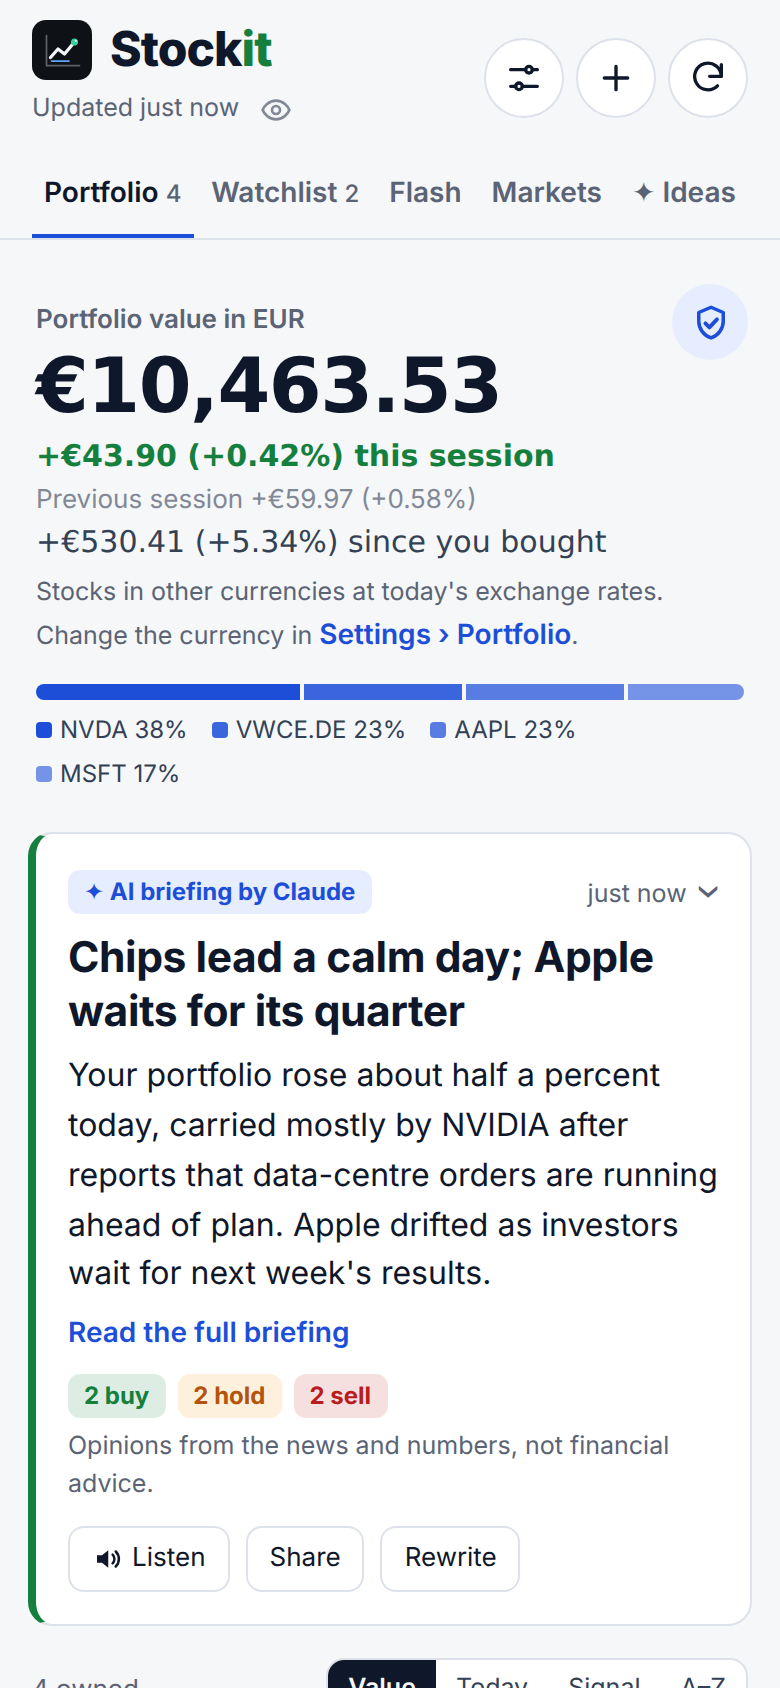
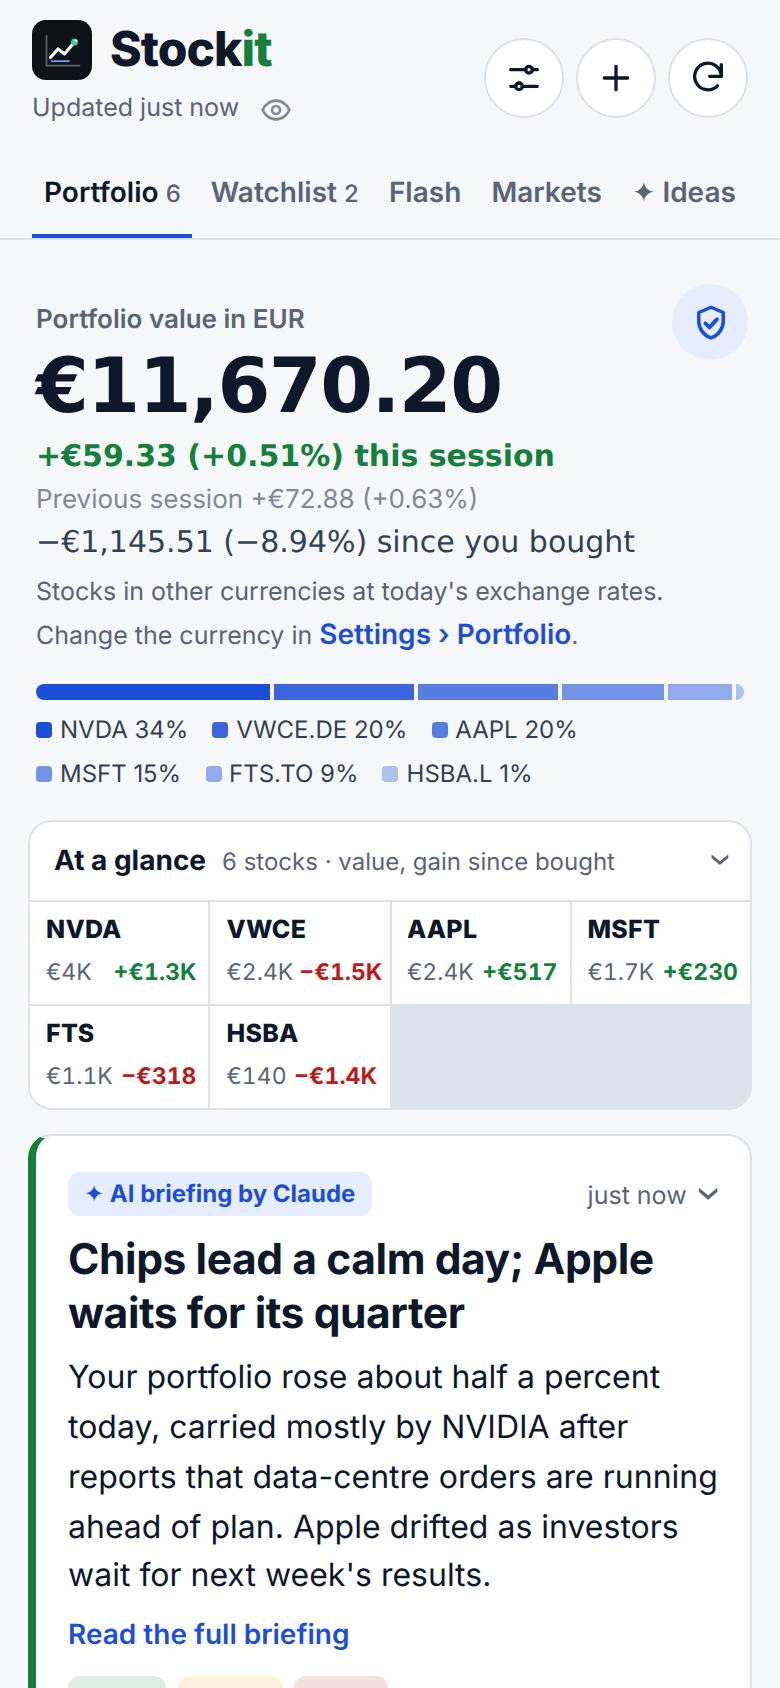
Stockit 1.26.0: At a glance — a compact grid of owned stocks with value and gain

diff --git a/Stockit.js b/Stockit.js
@@ -31,7 +31,7 @@
  */
 
 // This build's version. When releasing, bump it and add a matching entry to releases.json.
-const VERSION = '1.25.0';
+const VERSION = '1.26.0';
 const APP_ID = 'stockit';   // unique per app, never changes
 const REPO_RAW = 'https://raw.githubusercontent.com/gadominas/StockIt/main/';
 const SCRIPT_FILE = 'Stockit.js';   // the script's file name in the repository
@@ -276,7 +276,7 @@ const write = (n, v) => {
 
 // Defaults first, saved choices on top. Loaded here, before the app and widget branches.
 const settings = Object.assign(
-  { tab: "own", sort: "value", range: "1y", addTo: "watch", flashFold: {}, ideasFold: {}, insiders: true, widgetTrend: "1m",   // widgetTrend: the longer change beside each widget ticker (1w, 2w, 1m, 3m, off) checkIntro: 0, aiStrat: true, privacy: false, briefSeen: 0,   // briefSeen: the briefing you've moved on from, shown folded   // privacy: your amounts hidden, for showing the app to someone   // aiStrat: suggested strategies refresh on their own    // remembered picks; flashFold: symbol → newest headline time when folded
+  { tab: "own", sort: "value", range: "1y", addTo: "watch", flashFold: {}, ideasFold: {}, insiders: true, glanceOpen: true, widgetTrend: "1m",   // widgetTrend: the longer change beside each widget ticker (1w, 2w, 1m, 3m, off) checkIntro: 0, aiStrat: true, privacy: false, briefSeen: 0,   // briefSeen: the briefing you've moved on from, shown folded   // privacy: your amounts hidden, for showing the app to someone   // aiStrat: suggested strategies refresh on their own    // remembered picks; flashFold: symbol → newest headline time when folded
     refreshOnOpen: true, widgetMoney: false, homeCur: "auto",   // homeCur: the currency your money is shown in (auto: your biggest holdings')                                    // Portfolio
     newsYahoo: true, newsWeb: true, crowd: true,                                // News and signals
     style: "balanced",                                                          // AI advice: cautious, balanced, adventurous
@@ -1917,7 +1917,7 @@ function clientState() {
       theme: settings.theme, density: settings.density, font: settings.font, textSize: settings.textSize,
       speechEngine: settings.speechEngine || "device", voiceURI: settings.voiceURI || "", voiceRate: settings.voiceRate || 1, voicePitch: settings.voicePitch || 1,
       voiceGender: settings.voiceGender || "all", ttsModel: settings.ttsModel || "gpt-4o-mini-tts", ttsVoice: settings.ttsVoice || "coral",
-      ttsInstructions: settings.ttsInstructions || "", hasOpenAI: !!keyFor("openai"), shareUsage: !!settings.shareUsage, openInReader: settings.openInReader !== false, readerProxy: settings.readerProxy !== false, insiders: settings.insiders !== false, widgetTrend: settings.widgetTrend || "1m", quiverErr: settings.quiverErr || "", flashFold: settings.flashFold || {}, ideasFold: settings.ideasFold || {}, checkIntro: settings.checkIntro || 0, aiStrat: settings.aiStrat !== false, privacy: !!settings.privacy, briefSeen: settings.briefSeen || 0,
+      ttsInstructions: settings.ttsInstructions || "", hasOpenAI: !!keyFor("openai"), shareUsage: !!settings.shareUsage, openInReader: settings.openInReader !== false, readerProxy: settings.readerProxy !== false, insiders: settings.insiders !== false, glanceOpen: settings.glanceOpen !== false, widgetTrend: settings.widgetTrend || "1m", quiverErr: settings.quiverErr || "", flashFold: settings.flashFold || {}, ideasFold: settings.ideasFold || {}, checkIntro: settings.checkIntro || 0, aiStrat: settings.aiStrat !== false, privacy: !!settings.privacy, briefSeen: settings.briefSeen || 0,
     },
     ttsModels: settings.ttsModels || null,
     lastRefresh: settings.lastRefresh, palettes: PALETTES, version: VERSION,
@@ -2102,7 +2102,7 @@ async function handle(m) {
     case "state": return push();
     case "set":
       if (m.k === "shareUsage") { setUsage(m.v === true || m.v === "true" || m.v === "1"); return push(); }
-      if (["openInReader", "tab", "sort", "range", "addTo", "refreshOnOpen", "widgetMoney", "newsYahoo", "newsWeb", "crowd", "style", "ai", "theme", "density", "font", "textSize", "checkUpdates", "aiStrat", "privacy", "briefSeen", "readerProxy", "insiders",
+      if (["openInReader", "tab", "sort", "range", "addTo", "refreshOnOpen", "widgetMoney", "newsYahoo", "newsWeb", "crowd", "style", "ai", "theme", "density", "font", "textSize", "checkUpdates", "aiStrat", "privacy", "briefSeen", "readerProxy", "insiders", "glanceOpen",
         "speechEngine", "voiceURI", "voiceRate", "voicePitch", "voiceGender", "ttsModel", "ttsVoice", "ttsInstructions"].includes(m.k)) settings[m.k] = m.v;
       if (m.k === "ideasFold" && m.v && typeof m.v === "object" && !Array.isArray(m.v)) settings.ideasFold = { strat: !!m.v.strat, themes: !!m.v.themes, ideas: !!m.v.ideas };
       if (m.k === "flashFold" && m.v && typeof m.v === "object" && !Array.isArray(m.v))   // folded Flash cards, kept for stocks you follow
@@ -2825,7 +2825,7 @@ function clientApp() {
       <h2>Start with the stocks you own or follow</h2><p>Search by name or ticker, paste a list, import your broker's CSV${S.settings.hasKey ? ", or snap a screenshot of your Stocks app watchlist" : ""}.</p>
       <button class="primary" data-act="addopen">Add stocks</button></section>`;
     const items = S.stocks.filter(x => tab === "own" ? x.list === "own" : x.list !== "own");
-    const head = tab === "own" ? checkIntroHTML(items) + summaryHTML(items) + briefHTML() : "";
+    const head = tab === "own" ? checkIntroHTML(items) + summaryHTML(items) + glanceHTML(items) + briefHTML() : "";
     if (!items.length) return head + `<section class="empty small"><p>${tab === "own" ? "No owned stocks yet. Open one from your watchlist and tap <b>I own this</b>, or add one with +." : "Nothing on your watchlist. Add stocks you're curious about with +."}</p></section>`;
     const sorts = [["mine", "Mine"]].concat(tab === "own" ? [["value", "Value"]] : []).concat([["today", "Today"], ["signal", "Signal"], ["az", "A–Z"]]);
     const cur = tab === "watch" && sort === "value" ? "today" : sort;
@@ -2866,6 +2866,25 @@ function clientApp() {
       : `<small class="r-day muted">Today: not traded yet${q.opensAt ? ", opens in " + dur(q.opensAt - Date.now()) : ""}</small>`;
     const before = q.prevM != null ? `<small class="r-prev">Previous session ${P(sgn(q.prevM, q.mcur))} (${pct(q.prevPct)})</small>` : "";
     return now + before;
+  }
+  // At a glance: every stock you own as a small tile (ticker, value, gain since you bought), four to a row,
+  // biggest first, folding away under one line. Tap a tile for the stock.
+  function glanceHTML(items) {
+    const own = items.filter(x => x.list === "own" && x.sh > 0 && x.price != null);
+    if (own.length < 2) return "";
+    const open = S.settings.glanceOpen !== false;
+    const val = x => posHome(x) != null ? posHome(x) : x.sh * x.price;
+    const tiles = own.slice().sort((a, b) => (!!b.pin - !!a.pin) || val(b) - val(a)).map(x => {
+      const v = posHome(x), cur = v != null ? HOME() : x.cur, inv = x.cost ? (v != null ? inHome(x.sh * x.cost, x.cur) : x.sh * x.cost) : null;
+      const g = inv != null ? (v != null ? v : x.sh * x.price) - inv : null, gp = g != null && inv ? g / inv * 100 : null;
+      const short = n => Math.abs(n) >= 1000 ? money(n, cur, true) : money(n, cur, false, 0);
+      const sg = n => (n >= 0 ? "+" : "−") + short(Math.abs(n));
+      return `<button class="gl-t ${x.hl ? "hl" : ""}" data-act="open" data-v="${esc(x.s)}" aria-label="${esc(x.s)}">
+        <b>${esc(x.s.replace(/\.(DE|F|L|PA|AS|MI|TO|V|SW|ST|OL|CO|HE|VI|BR|MC|LS|T|HK|AX)$/, ""))}</b>
+        <span class="gl-1"><span class="gl-v">${P(short(val(x)))}</span><span class="gl-g ${cls(g != null ? g : dayPct(x))}">${g == null ? pct(dayPct(x), 1) : priv() ? pct(gp, 1) : sg(g)}</span></span></button>`;
+    }).join("");
+    return `<section class="glance ${open ? "open" : ""}"><button class="gl-h" data-act="glance" aria-expanded="${open}"><span>At a glance</span><small>${own.length} stocks · value, gain since bought</small><span class="chev" aria-hidden="true">›</span></button>
+      ${open ? `<div class="gl-grid">${tiles}</div>` : ""}</section>`;
   }
   function investedLine(x) {
     if (x.list !== "own" || !x.sh || !x.cost || x.price == null) return "";
@@ -4388,6 +4407,7 @@ function clientApp() {
       case "tab": arrange = false; if (tab === "own" && v !== "own" && S.briefing && S.settings.briefSeen !== S.briefing.at) { S.settings.briefSeen = S.briefing.at; send("set", { k: "briefSeen", v: S.briefing.at }); } if (v !== "own") { briefFold = null; briefFull = false; } tab = v; if (v !== "ideas") send("set", { k: "tab", v }); else if (S.settings.hasKey) send("stratdue", {}); render(); window.scrollTo(0, 0); break;
       case "sort": sort = v; send("set", { k: "sort", v }); render(); break;
       case "lot": send("lot", { s: v, id: t.dataset.id || "" }); break;
+      case "glance": S.settings.glanceOpen = S.settings.glanceOpen === false; send("set", { k: "glanceOpen", v: S.settings.glanceOpen }); render(); break;
       case "wtrend": S.settings.widgetTrend = v; send("set", { k: "widgetTrend", v }); renderCfg(); break;
       case "arrange": if (v === "1") startArrange(); else { arrange = false; render(); } break;
       case "mark": { const y = byS(v), k = t.dataset.k; if (!y) break; y[k] = !y[k]; send("mark", { s: v, k, v: y[k] }); if (openSym) renderDetail(); render(); window.toast(k === "pin" ? (y[k] ? `${v} pinned to the top` : `${v} unpinned`) : k === "wpin" ? (y[k] ? `${v} is on the widget` : `${v} left the widget`) : (y[k] ? `${v} highlighted` : `${v} highlight removed`)); break; }
@@ -5182,6 +5202,21 @@ html[data-font=serif] .tl-story p{font-family:var(--serif)}
 .arr-b .pin-i{margin:0;width:17px;height:17px;color:inherit}
 .arr-b.on{color:var(--paper);background:var(--signal);box-shadow:none} .arr-b.star.on{background:var(--amber)} .arr-b.wid.on{background:var(--up)}
 .srow.col{flex-direction:column;align-items:flex-start;gap:4px} .wchip{margin:2px 2px 0 0;font-size:calc(12px * var(--ts))}
+/* At a glance: every stock you own, four to a row */
+.glance{margin:4px 0 12px;border:1px solid var(--rule);border-radius:12px;background:var(--sheet);overflow:hidden}
+.gl-h{display:flex;align-items:baseline;gap:8px;width:100%;padding:9px 12px;text-align:left}
+.gl-h span:first-child{font-weight:700;font-size:calc(14px * var(--ts))}
+.gl-h small{flex:1;color:var(--muted);font-size:calc(12px * var(--ts));white-space:nowrap;overflow:hidden;text-overflow:ellipsis}
+.gl-h .chev{color:var(--muted);font-size:18px;transition:transform .2s} .glance.open .gl-h .chev{transform:rotate(90deg)}
+.gl-grid{display:grid;grid-template-columns:repeat(4,1fr);gap:1px;background:var(--rule);border-top:1px solid var(--rule)}
+.gl-t{display:flex;flex-direction:column;align-items:flex-start;gap:2px;padding:6px 6px 7px 8px;background:var(--sheet);min-width:0;text-align:left}
+.gl-1{display:flex;justify-content:space-between;align-items:baseline;gap:3px;width:100%;min-width:0}
+.gl-t b{font-size:calc(12.5px * var(--ts));font-weight:800;letter-spacing:.01em;white-space:nowrap;overflow:hidden;text-overflow:ellipsis;min-width:0}
+.gl-v{font-size:calc(11.5px * var(--ts));color:var(--muted);flex:none;font-variant-numeric:tabular-nums;white-space:nowrap}
+.gl-g{font-size:calc(11.5px * var(--ts));font-weight:700;font-variant-numeric:tabular-nums;white-space:nowrap}
+.gl-g.up{color:var(--up)} .gl-g.down{color:var(--danger)}
+.gl-t.hl{box-shadow:inset 3px 0 0 var(--amber)}
+.gl-t:active{background:var(--paper)}
 /* Positions on several markets */
 .lot-add{margin:8px 0 0}
 .lots{margin-top:12px;border-top:1px solid var(--rule);padding-top:8px}

diff --git a/README.md b/README.md
@@ -10,7 +10,7 @@ Your stocks, the news around them and a plain-English story of what's going on.<
 
 An iPhone and iPad app for [Scriptable](https://scriptable.app). One file. No account, no server, no subscription.
 
-[![Version](https://img.shields.io/badge/version-1.25.0-1d4ed8)](CHANGELOG.md)
+[![Version](https://img.shields.io/badge/version-1.26.0-1d4ed8)](CHANGELOG.md)
 [![Platform](https://img.shields.io/badge/iOS-Scriptable-0f172a)](https://apps.apple.com/app/scriptable/id1405459188)
 [![AI](https://img.shields.io/badge/AI-Claude%20or%20OpenAI%2C%20optional-8b5cf6)](#ai-on-your-terms)
 [![Not financial advice](https://img.shields.io/badge/not-financial%20advice-b91c1c)](#not-financial-advice)
@@ -109,6 +109,7 @@ Most stock apps show you a price and a wall of headlines. Stockit is made for a 
 | | |
 |---|---|
 | 💼 **Portfolio and watchlist** | Two tabs: stocks you own, with shares and average price, and stocks you watch. Each row shows the price, today's change, a one-month trend line and Stockit's view; owned stocks also show what they made or lost this session (and, dimmed, in the session before) and what you invested and have gained or lost, in your currency. Sort by value, today's move, signal or A–Z. |
+| 👀 **At a glance** | Under your portfolio's total, every stock you own as a small tile, four to a row: ticker, value and what you've gained or lost since you bought. Folds away with one tap. |
 | 💰 **Your money at a glance** | Portfolio value, today's change and the gain since you bought, with the split across your biggest holdings, all in **one currency you choose** (euros, dollars, pounds and more), whichever markets your stocks trade on. |
 | 📊 **A page per stock** | 1D, 1W, 1M, 6M, 1Y and 5Y chart you can touch to see the price at any moment, whether its market is open, your position (value, today, since you bought), the price trend from the 50- and 200-day averages, and an About section. |
 | 🔢 **Numbers, explained** | P/E, forward P/E, market cap, dividend yield, EPS, beta, analyst target, margins, growth, 50- and 200-day averages, RSI, 52-week range and 1, 6 and 12-month performance. Tap any of them for a plain-words explanation. |
